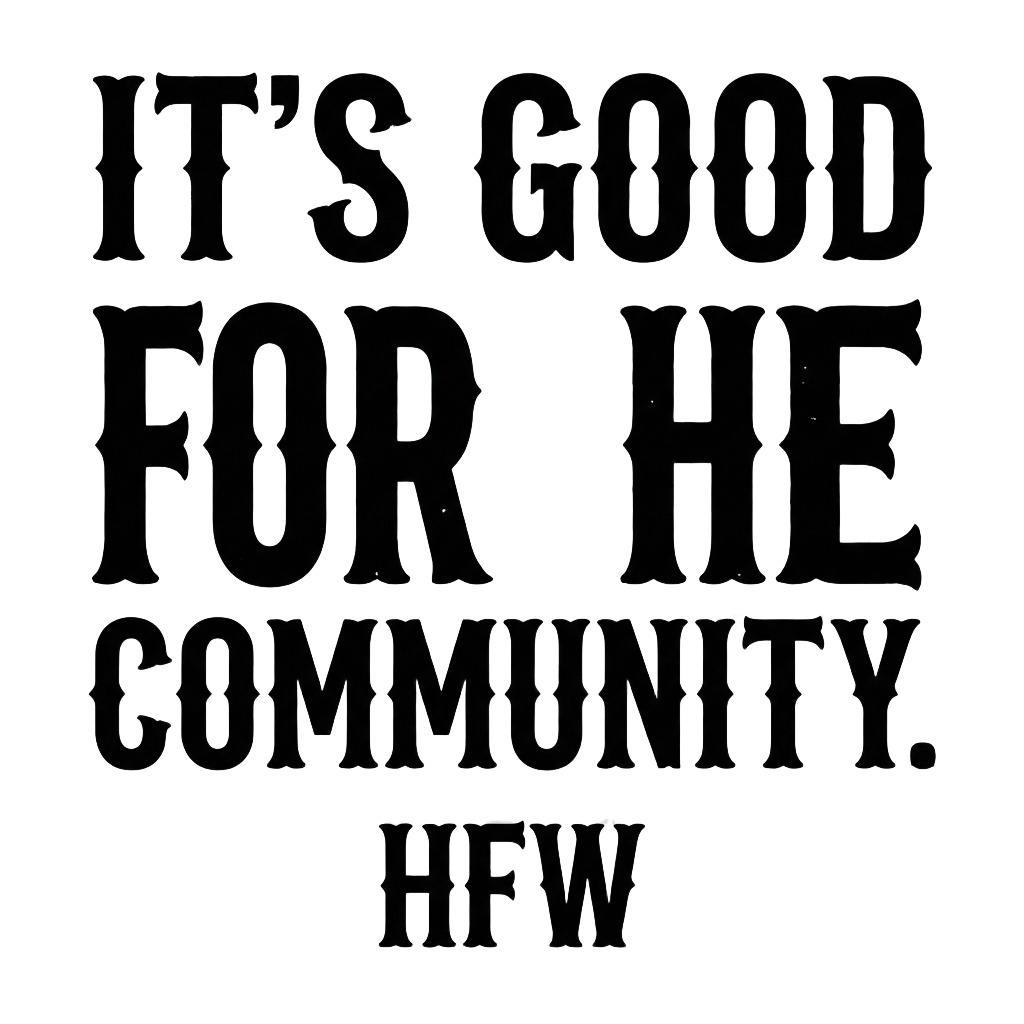
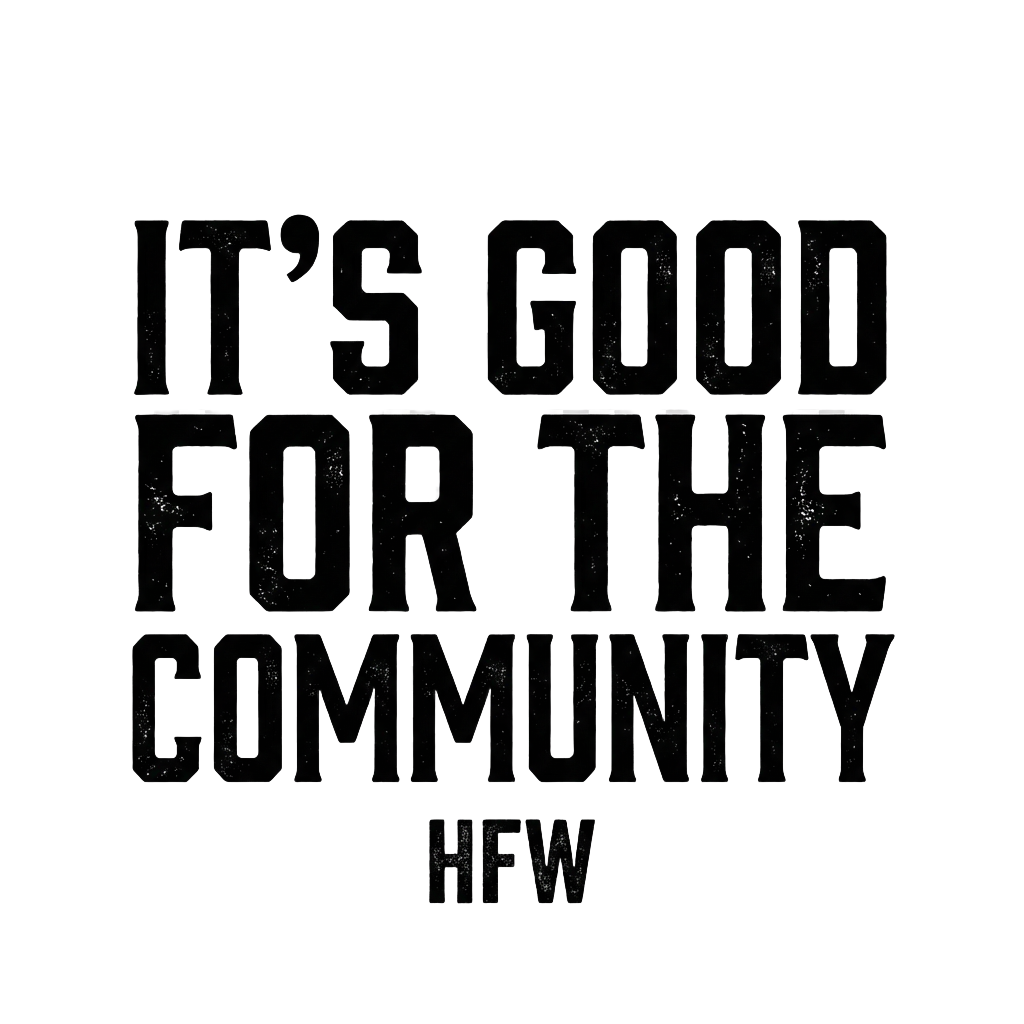
Fix: Good for Community graphic text, add mobile navigation tabs
- Regenerated 'Good for Community' graphic with correct text 'IT'S GOOD FOR THE COMMUNITY' (was missing THE)
- Added mobile navigation bar with step buttons (1-5) for easy access to sections
- Navigation highlights current step as user scrolls
- Smooth scroll to selected section on tap
- Mobile nav appears on screens <= 768px

Changed region(s): [[0.0938, 0.0625, 0.9375, 0.9375]]

diff --git a/src/index.tsx b/src/index.tsx
@@ -272,8 +272,8 @@ const graphics = [
   {
     id: 'good-for-community',
     name: 'Good for Community',
-    thumbnail: '/images/graphics/good-for-community.png?v=9',
-    fullImage: '/images/graphics/good-for-community.png?v=9',
+    thumbnail: '/images/graphics/good-for-community.png?v=10',
+    fullImage: '/images/graphics/good-for-community.png?v=10',
     restrictToGarments: []
   },
   {
@@ -1765,6 +1765,94 @@ app.get('/build', (c) => {
       background: #8B0000;
       color: #fff;
     }
+    
+    /* Mobile Navigation Tabs */
+    .mobile-nav {
+      display: none;
+      position: fixed;
+      bottom: 0;
+      left: 0;
+      right: 0;
+      background: #1a1a1a;
+      z-index: 100;
+      padding: 8px 0 calc(8px + env(safe-area-inset-bottom));
+      box-shadow: 0 -4px 20px rgba(0,0,0,0.3);
+    }
+    
+    .mobile-nav-inner {
+      display: flex;
+      justify-content: space-around;
+      align-items: center;
+      max-width: 500px;
+      margin: 0 auto;
+    }
+    
+    .mobile-nav-btn {
+      display: flex;
+      flex-direction: column;
+      align-items: center;
+      gap: 4px;
+      background: transparent;
+      border: none;
+      color: #888;
+      cursor: pointer;
+      padding: 8px 12px;
+      border-radius: 8px;
+      transition: all 0.2s;
+      font-family: 'Oswald', sans-serif;
+    }
+    
+    .mobile-nav-btn:hover,
+    .mobile-nav-btn:active,
+    .mobile-nav-btn.active {
+      color: #fff;
+      background: rgba(139, 0, 0, 0.3);
+    }
+    
+    .mobile-nav-btn .step-circle {
+      width: 28px;
+      height: 28px;
+      border-radius: 50%;
+      background: #333;
+      color: #888;
+      display: flex;
+      align-items: center;
+      justify-content: center;
+      font-weight: 600;
+      font-size: 0.85rem;
+      transition: all 0.2s;
+    }
+    
+    .mobile-nav-btn:hover .step-circle,
+    .mobile-nav-btn:active .step-circle,
+    .mobile-nav-btn.active .step-circle {
+      background: #8B0000;
+      color: #fff;
+    }
+    
+    .mobile-nav-btn .step-label {
+      font-size: 0.65rem;
+      text-transform: uppercase;
+      letter-spacing: 0.5px;
+    }
+    
+    @media (max-width: 768px) {
+      .mobile-nav {
+        display: block;
+      }
+      
+      body {
+        padding-bottom: 80px; /* Space for mobile nav */
+      }
+      
+      .builder-container {
+        padding-bottom: 100px;
+      }
+      
+      .option-group {
+        scroll-margin-top: 80px; /* Account for header when scrolling */
+      }
+    }
   </style>
 </head>
 <body>
@@ -1782,13 +1870,13 @@ app.get('/build', (c) => {
     <!-- Options Panel -->
     <div class="options-section">
       <!-- Step 1: Garment -->
-      <div class="option-group">
+      <div class="option-group" id="step1">
         <h3><span class="step-num">1</span> Choose Your Garment</h3>
         <div class="garment-grid" id="garmentGrid"></div>
       </div>
       
       <!-- Step 2: Size -->
-      <div class="option-group">
+      <div class="option-group" id="step2">
         <h3><span class="step-num">2</span> Select Size</h3>
         <div class="size-grid" id="sizeGrid">
           <div style="color: #999; font-size: 0.9rem;">Select a garment first</div>
@@ -1796,7 +1884,7 @@ app.get('/build', (c) => {
       </div>
       
       <!-- Step 3: Color -->
-      <div class="option-group">
+      <div class="option-group" id="step3">
         <h3><span class="step-num">3</span> Select Color</h3>
         <div class="color-grid" id="colorGrid">
           <div class="color-option white" data-color="white" onclick="selectColor('white')">
@@ -1812,7 +1900,7 @@ app.get('/build', (c) => {
       </div>
       
       <!-- Step 4: Graphics -->
-      <div class="option-group">
+      <div class="option-group" id="step4">
         <h3><span class="step-num">4</span> Choose Graphics</h3>
         <div class="graphics-grid" id="graphicsGrid"></div>
         
@@ -1826,7 +1914,7 @@ app.get('/build', (c) => {
       </div>
       
       <!-- Step 5: Placement -->
-      <div class="option-group" id="placementSection">
+      <div class="option-group" id="step5">
         <h3><span class="step-num">5</span> Graphic Placement</h3>
         <div class="placement-grid" id="placementGrid"></div>
       </div>
@@ -1886,6 +1974,32 @@ app.get('/build', (c) => {
     </div>
   </div>
   
+  <!-- Mobile Navigation -->
+  <nav class="mobile-nav" id="mobileNav">
+    <div class="mobile-nav-inner">
+      <button class="mobile-nav-btn active" onclick="scrollToStep(1)" data-step="1">
+        <span class="step-circle">1</span>
+        <span class="step-label">Garment</span>
+      </button>
+      <button class="mobile-nav-btn" onclick="scrollToStep(2)" data-step="2">
+        <span class="step-circle">2</span>
+        <span class="step-label">Size</span>
+      </button>
+      <button class="mobile-nav-btn" onclick="scrollToStep(3)" data-step="3">
+        <span class="step-circle">3</span>
+        <span class="step-label">Color</span>
+      </button>
+      <button class="mobile-nav-btn" onclick="scrollToStep(4)" data-step="4">
+        <span class="step-circle">4</span>
+        <span class="step-label">Graphics</span>
+      </button>
+      <button class="mobile-nav-btn" onclick="scrollToStep(5)" data-step="5">
+        <span class="step-circle">5</span>
+        <span class="step-label">Place</span>
+      </button>
+    </div>
+  </nav>
+  
   <script>
     // Data from server
     const garments = ${garmentsJson};
@@ -1908,12 +2022,47 @@ app.get('/build', (c) => {
     let modalSelectedPlacement = null;
     let previewUpdateId = 0; // Used to cancel stale async updates
     
+    // Mobile navigation - scroll to step
+    function scrollToStep(stepNum) {
+      var element = document.getElementById('step' + stepNum);
+      if (element) {
+        element.scrollIntoView({ behavior: 'smooth', block: 'start' });
+        // Update active nav button
+        document.querySelectorAll('.mobile-nav-btn').forEach(function(btn) {
+          btn.classList.toggle('active', btn.dataset.step === String(stepNum));
+        });
+      }
+    }
+    
+    // Update mobile nav active state on scroll
+    function updateMobileNavOnScroll() {
+      var steps = [1, 2, 3, 4, 5];
+      var currentStep = 1;
+      
+      steps.forEach(function(step) {
+        var element = document.getElementById('step' + step);
+        if (element) {
+          var rect = element.getBoundingClientRect();
+          if (rect.top <= 150) {
+            currentStep = step;
+          }
+        }
+      });
+      
+      document.querySelectorAll('.mobile-nav-btn').forEach(function(btn) {
+        btn.classList.toggle('active', btn.dataset.step === String(currentStep));
+      });
+    }
+    
     // Initialize
     document.addEventListener('DOMContentLoaded', function() {
       initCanvas();
       renderGarments();
       renderGraphics();
       renderPlacements();
+      
+      // Add scroll listener for mobile nav
+      window.addEventListener('scroll', updateMobileNavOnScroll);
       
       // Check URL params
       const params = new URLSearchParams(window.location.search);
